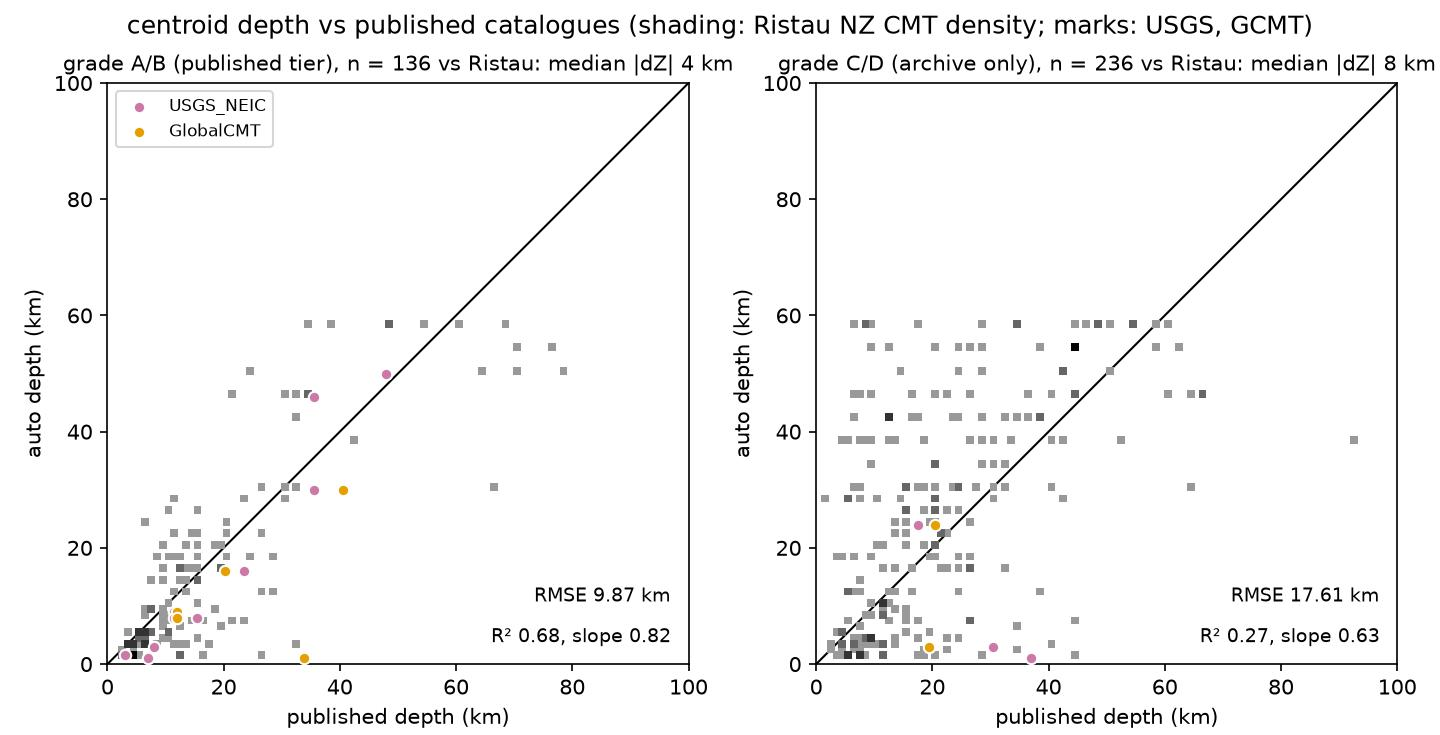
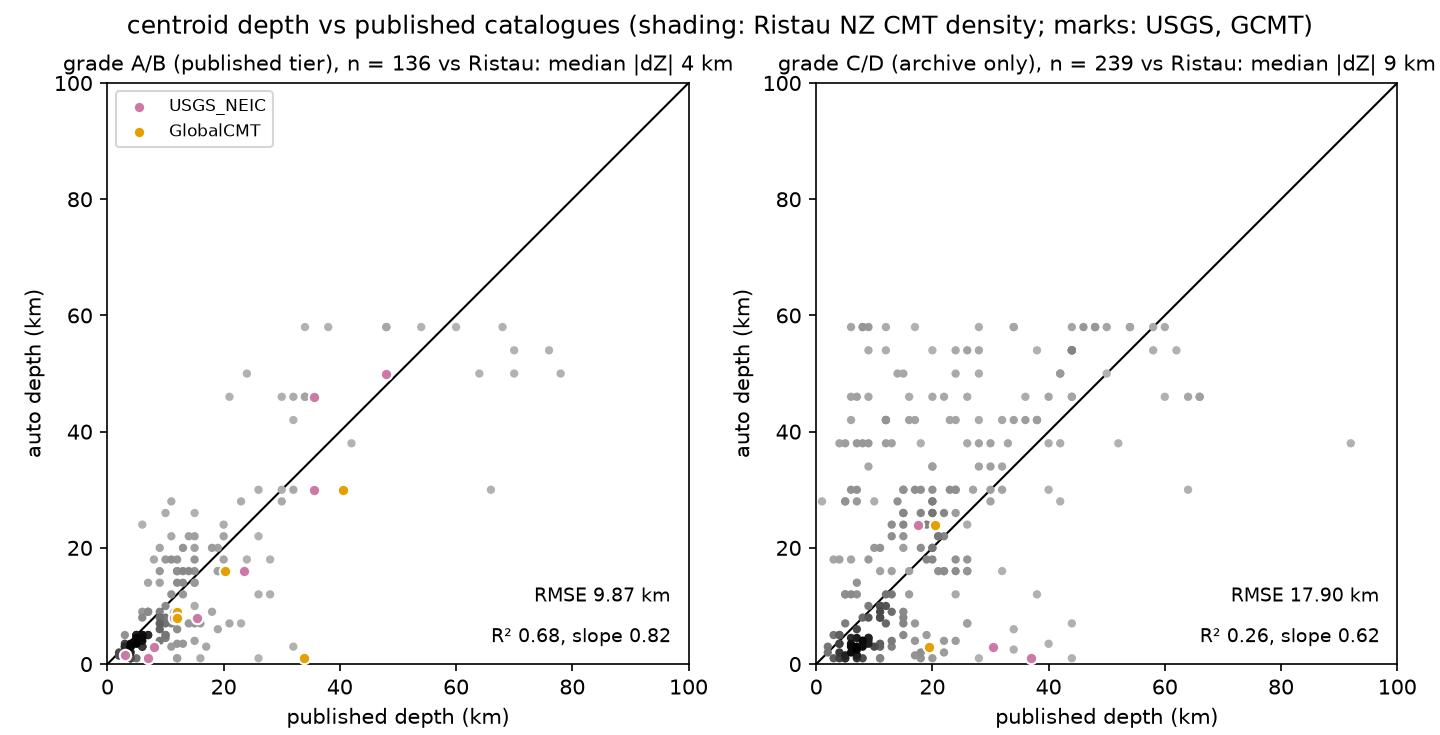
validation figures: kernel-density shaded scatter (reads at a few hundred events)

diff --git a/src/validate.py b/src/validate.py
@@ -268,20 +268,24 @@ def main() -> None:
               df[df.grade.isin(["C", "D"])])]
 
     def _density(ax, x, y, bin_size, xext, yext=None):
+        """Scatter shaded by a Gaussian kernel-density estimate of each
+        point's neighbourhood (light grey = isolated, black = the dense
+        core), densest points drawn last. Reads at a few hundred events
+        where a binned heat map is still sparse; bin_size only sets the
+        kernel scale relative to the axis range."""
         x = np.asarray(x, float); y = np.asarray(y, float)
+        if len(x) < 4:
+            ax.scatter(x, y, s=16, c="0.4", linewidths=0, zorder=3)
+            return
         yext = yext or xext
-        xe = np.arange(xext[0], xext[1] + bin_size, bin_size)
-        ye = np.arange(yext[0], yext[1] + bin_size, bin_size)
-        counts, _, _ = np.histogram2d(x, y, bins=[xe, ye])
-        ix, iy = np.nonzero(counts)
-        c = counts[ix, iy] / counts.max()
-        order = np.argsort(c)
-        cx = 0.5 * (xe[ix] + xe[ix + 1]); cy = 0.5 * (ye[iy] + ye[iy + 1])
-        # a few hundred events, so a single-count cell reads light grey
-        # and only the densest cells go black
-        ax.scatter(cx[order], cy[order], c=c[order], cmap="gray_r",
-                   vmin=-0.25, vmax=1.0, marker="s", s=14, linewidths=0,
-                   zorder=3)
+        xs = (x - xext[0]) / (xext[1] - xext[0])    # equalise the axes
+        ys = (y - yext[0]) / (yext[1] - yext[0])
+        z = _stats.gaussian_kde(np.vstack([xs, ys]), bw_method=0.12)(
+            np.vstack([xs, ys]))
+        z = z / z.max()
+        order = np.argsort(z)
+        ax.scatter(x[order], y[order], c=z[order], cmap="gray_r",
+                   vmin=-0.35, vmax=1.0, s=16, linewidths=0, zorder=3)
 
     def _fit_text(ax, x, y, unit):
         x = np.asarray(x, float); y = np.asarray(y, float)
